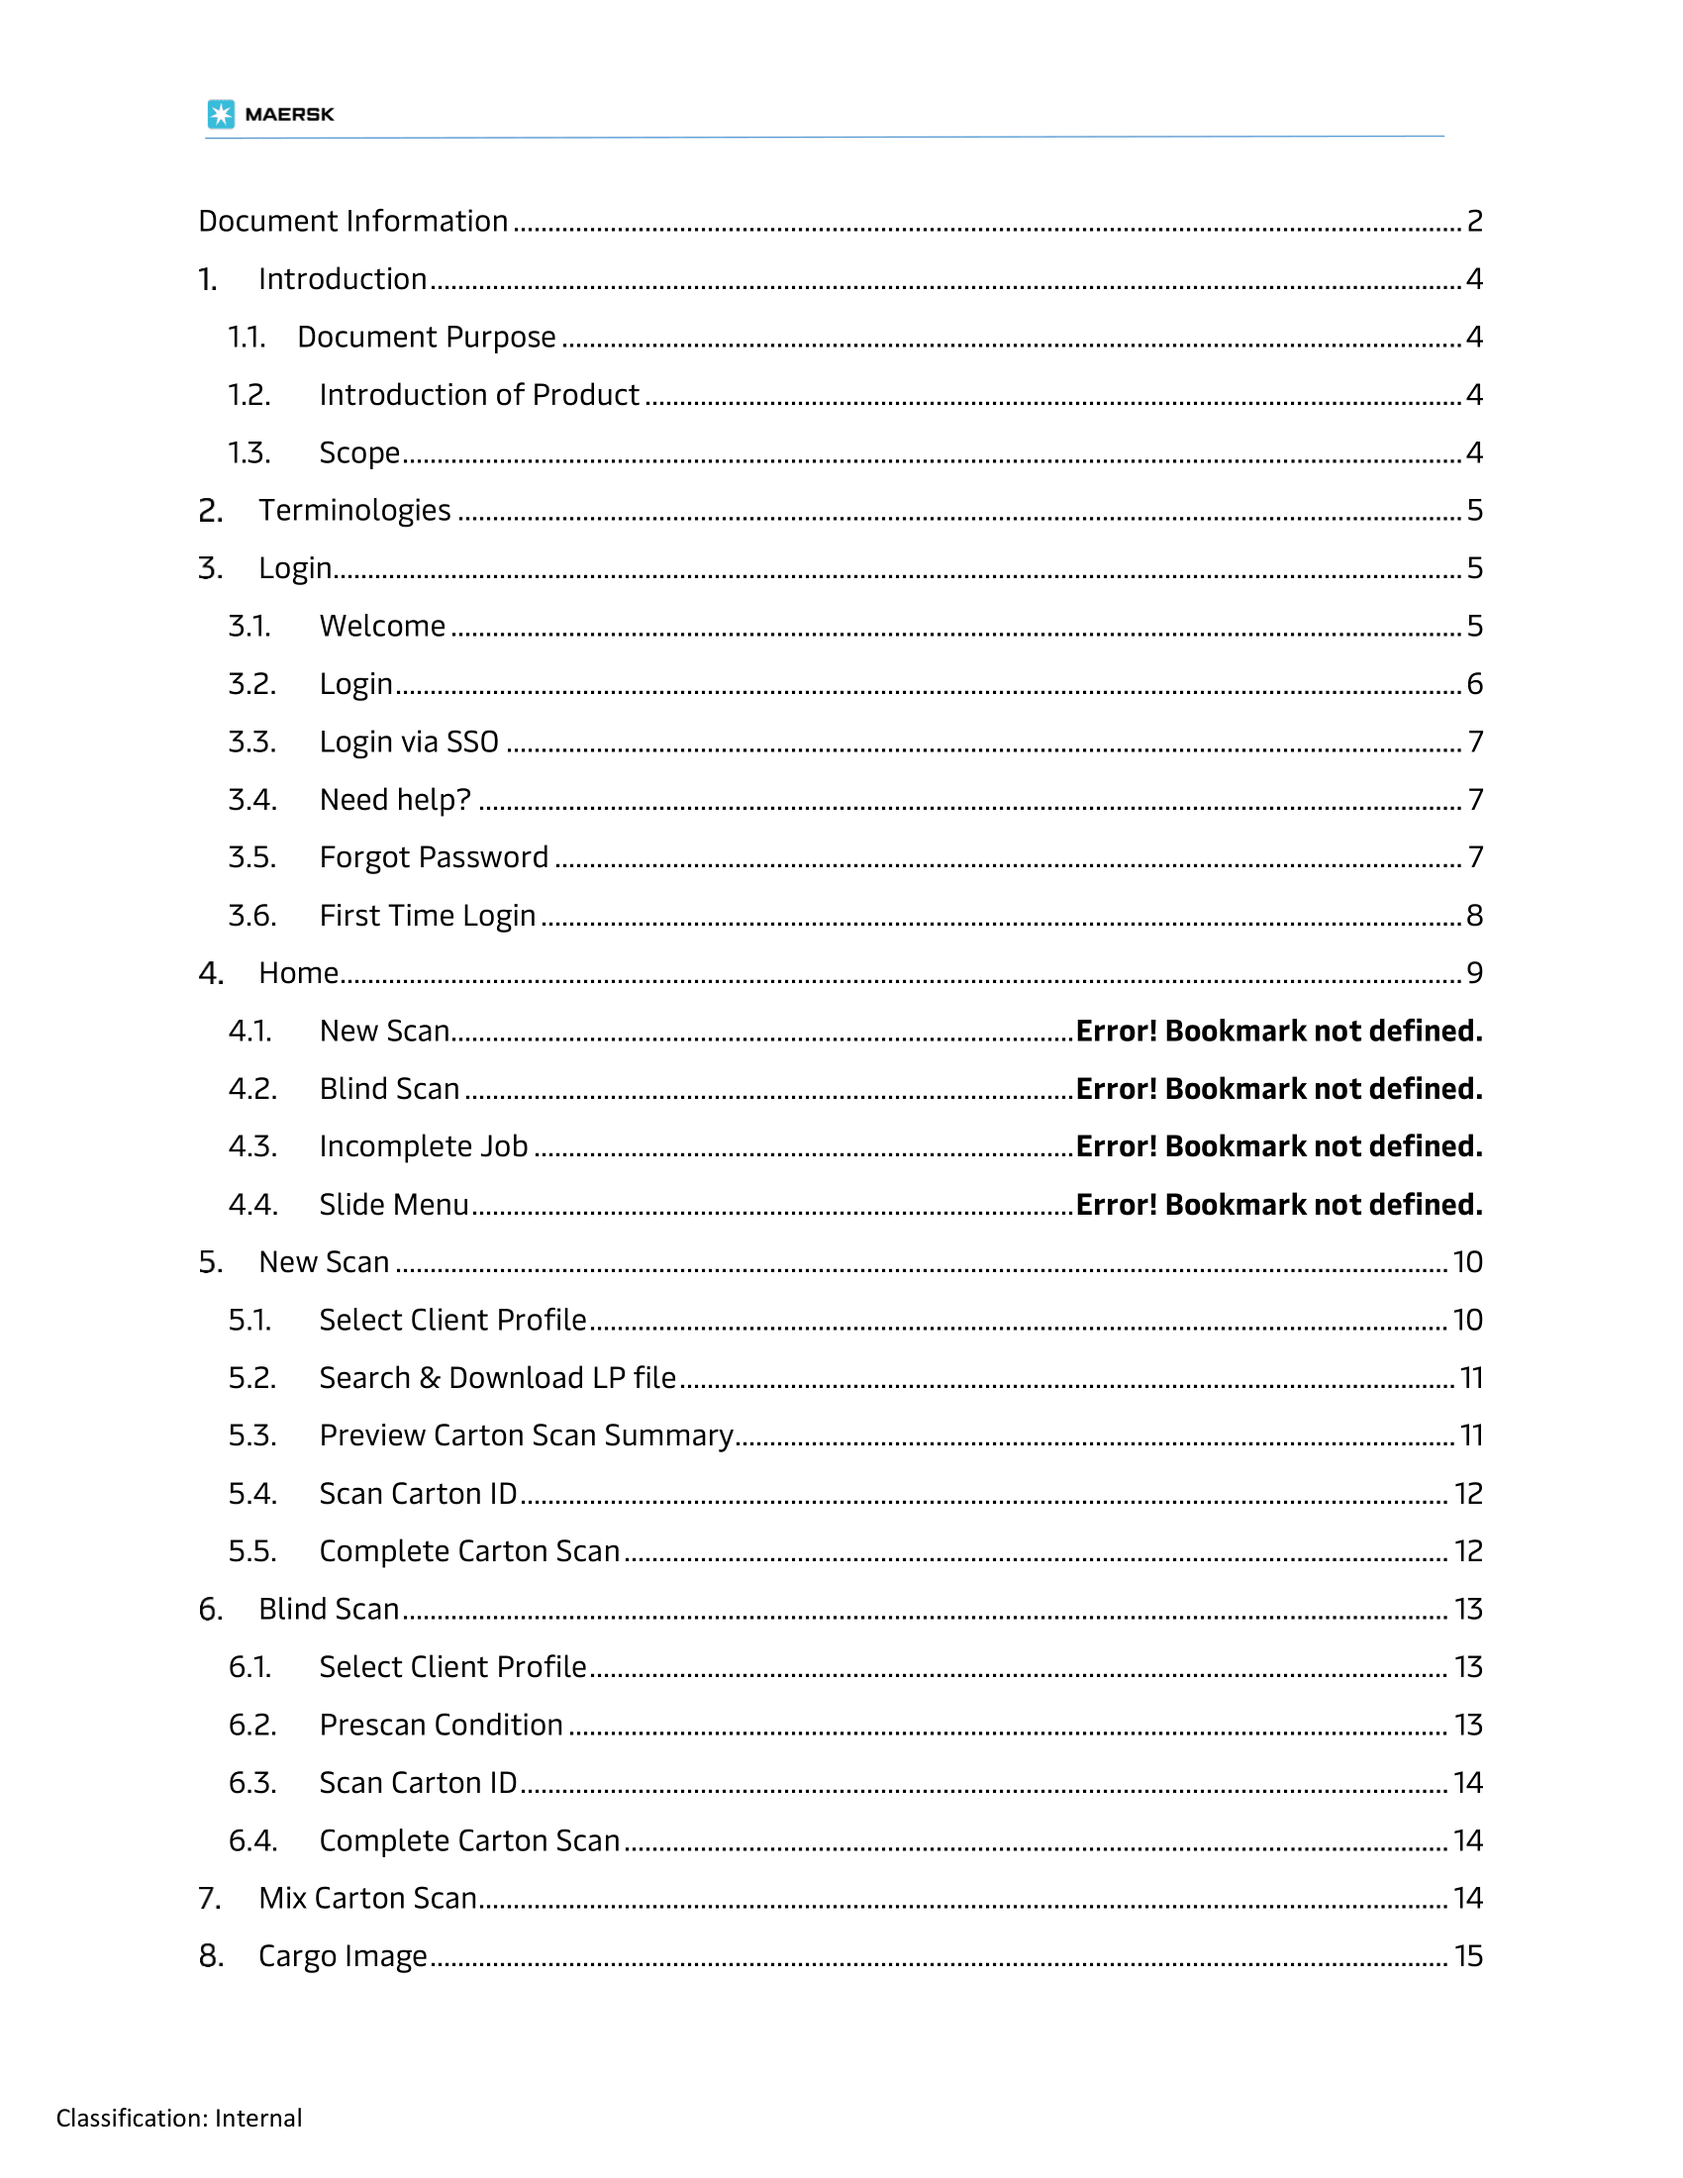
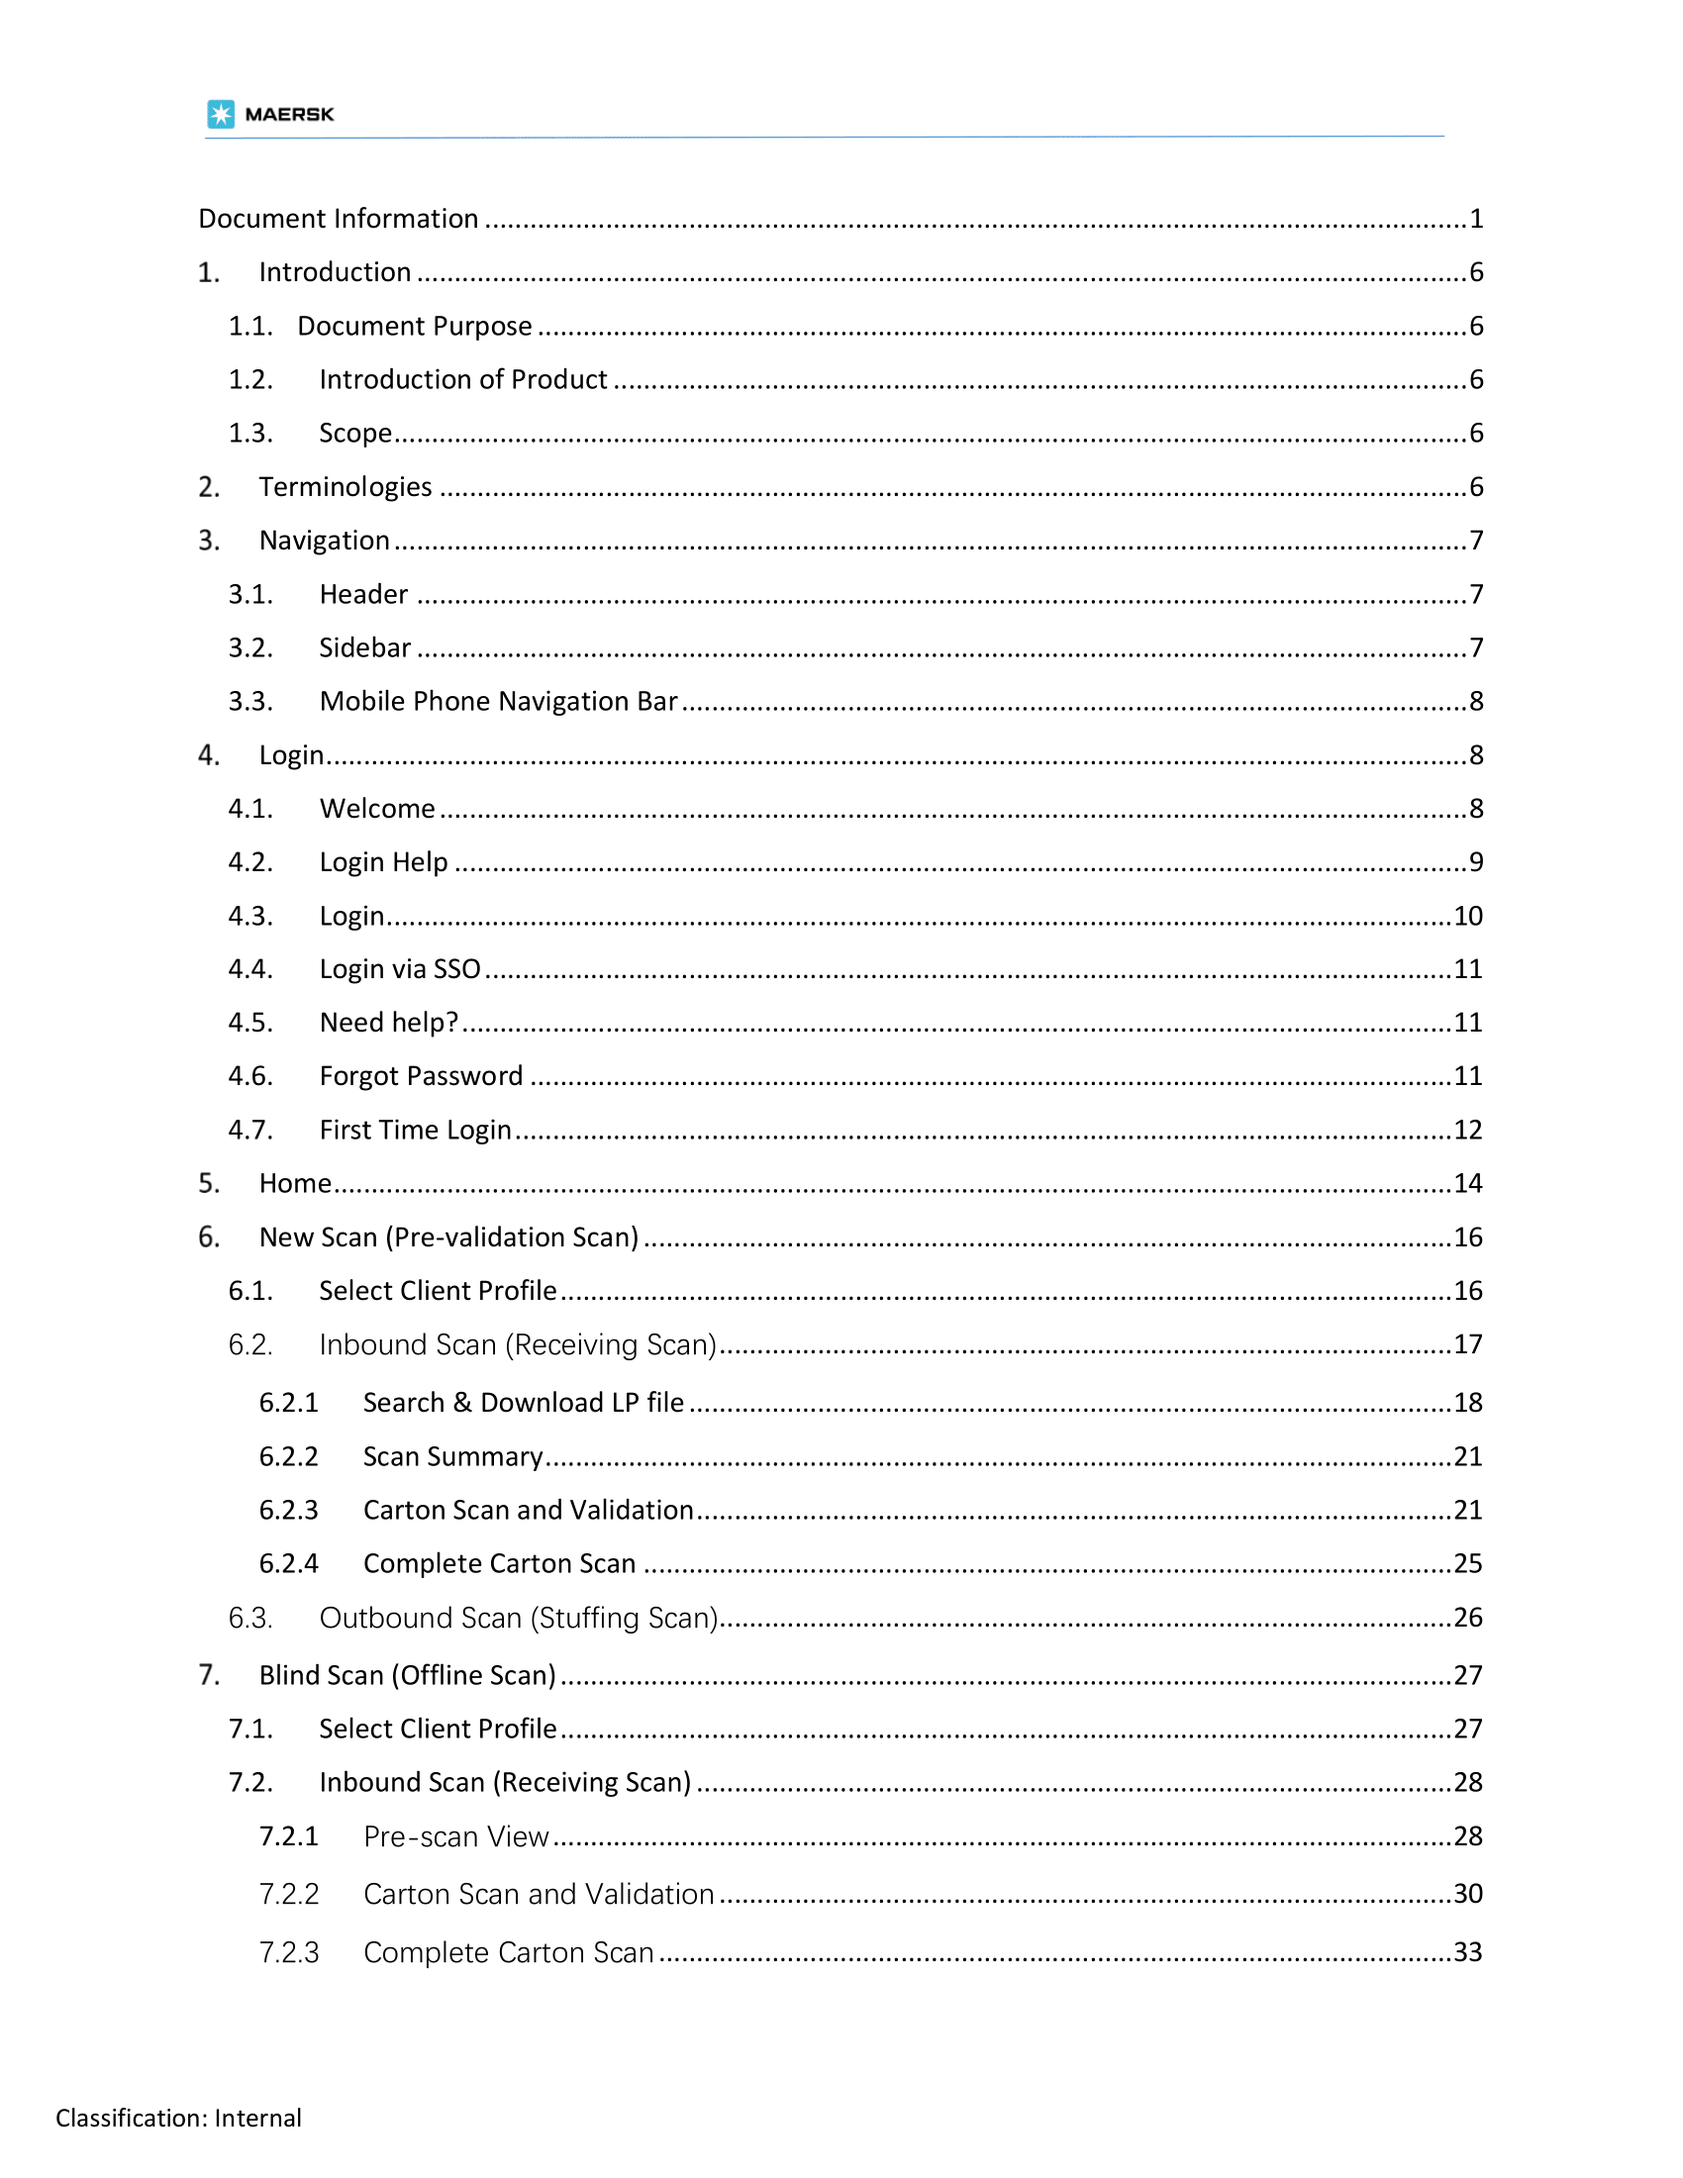
update user manual contents (#45)

diff --git a/src/components/UserManualComponent.vue b/src/components/UserManualComponent.vue
@@ -37,7 +37,7 @@ const UserManual = defineComponent({
       const deviceHeight = store.state.screenModule.screenHeight;
       setContentHeight("scroll-area", deviceHeight);
 
-      images.value = Array.from({ length: 21 }, (_, index) =>
+      images.value = Array.from({ length: 83 }, (_, index) =>
         require(`@/assets/LNS_Scanapp_User_Manual/LNS_Scanapp_User_Manual-${(
           index + 1
         )
